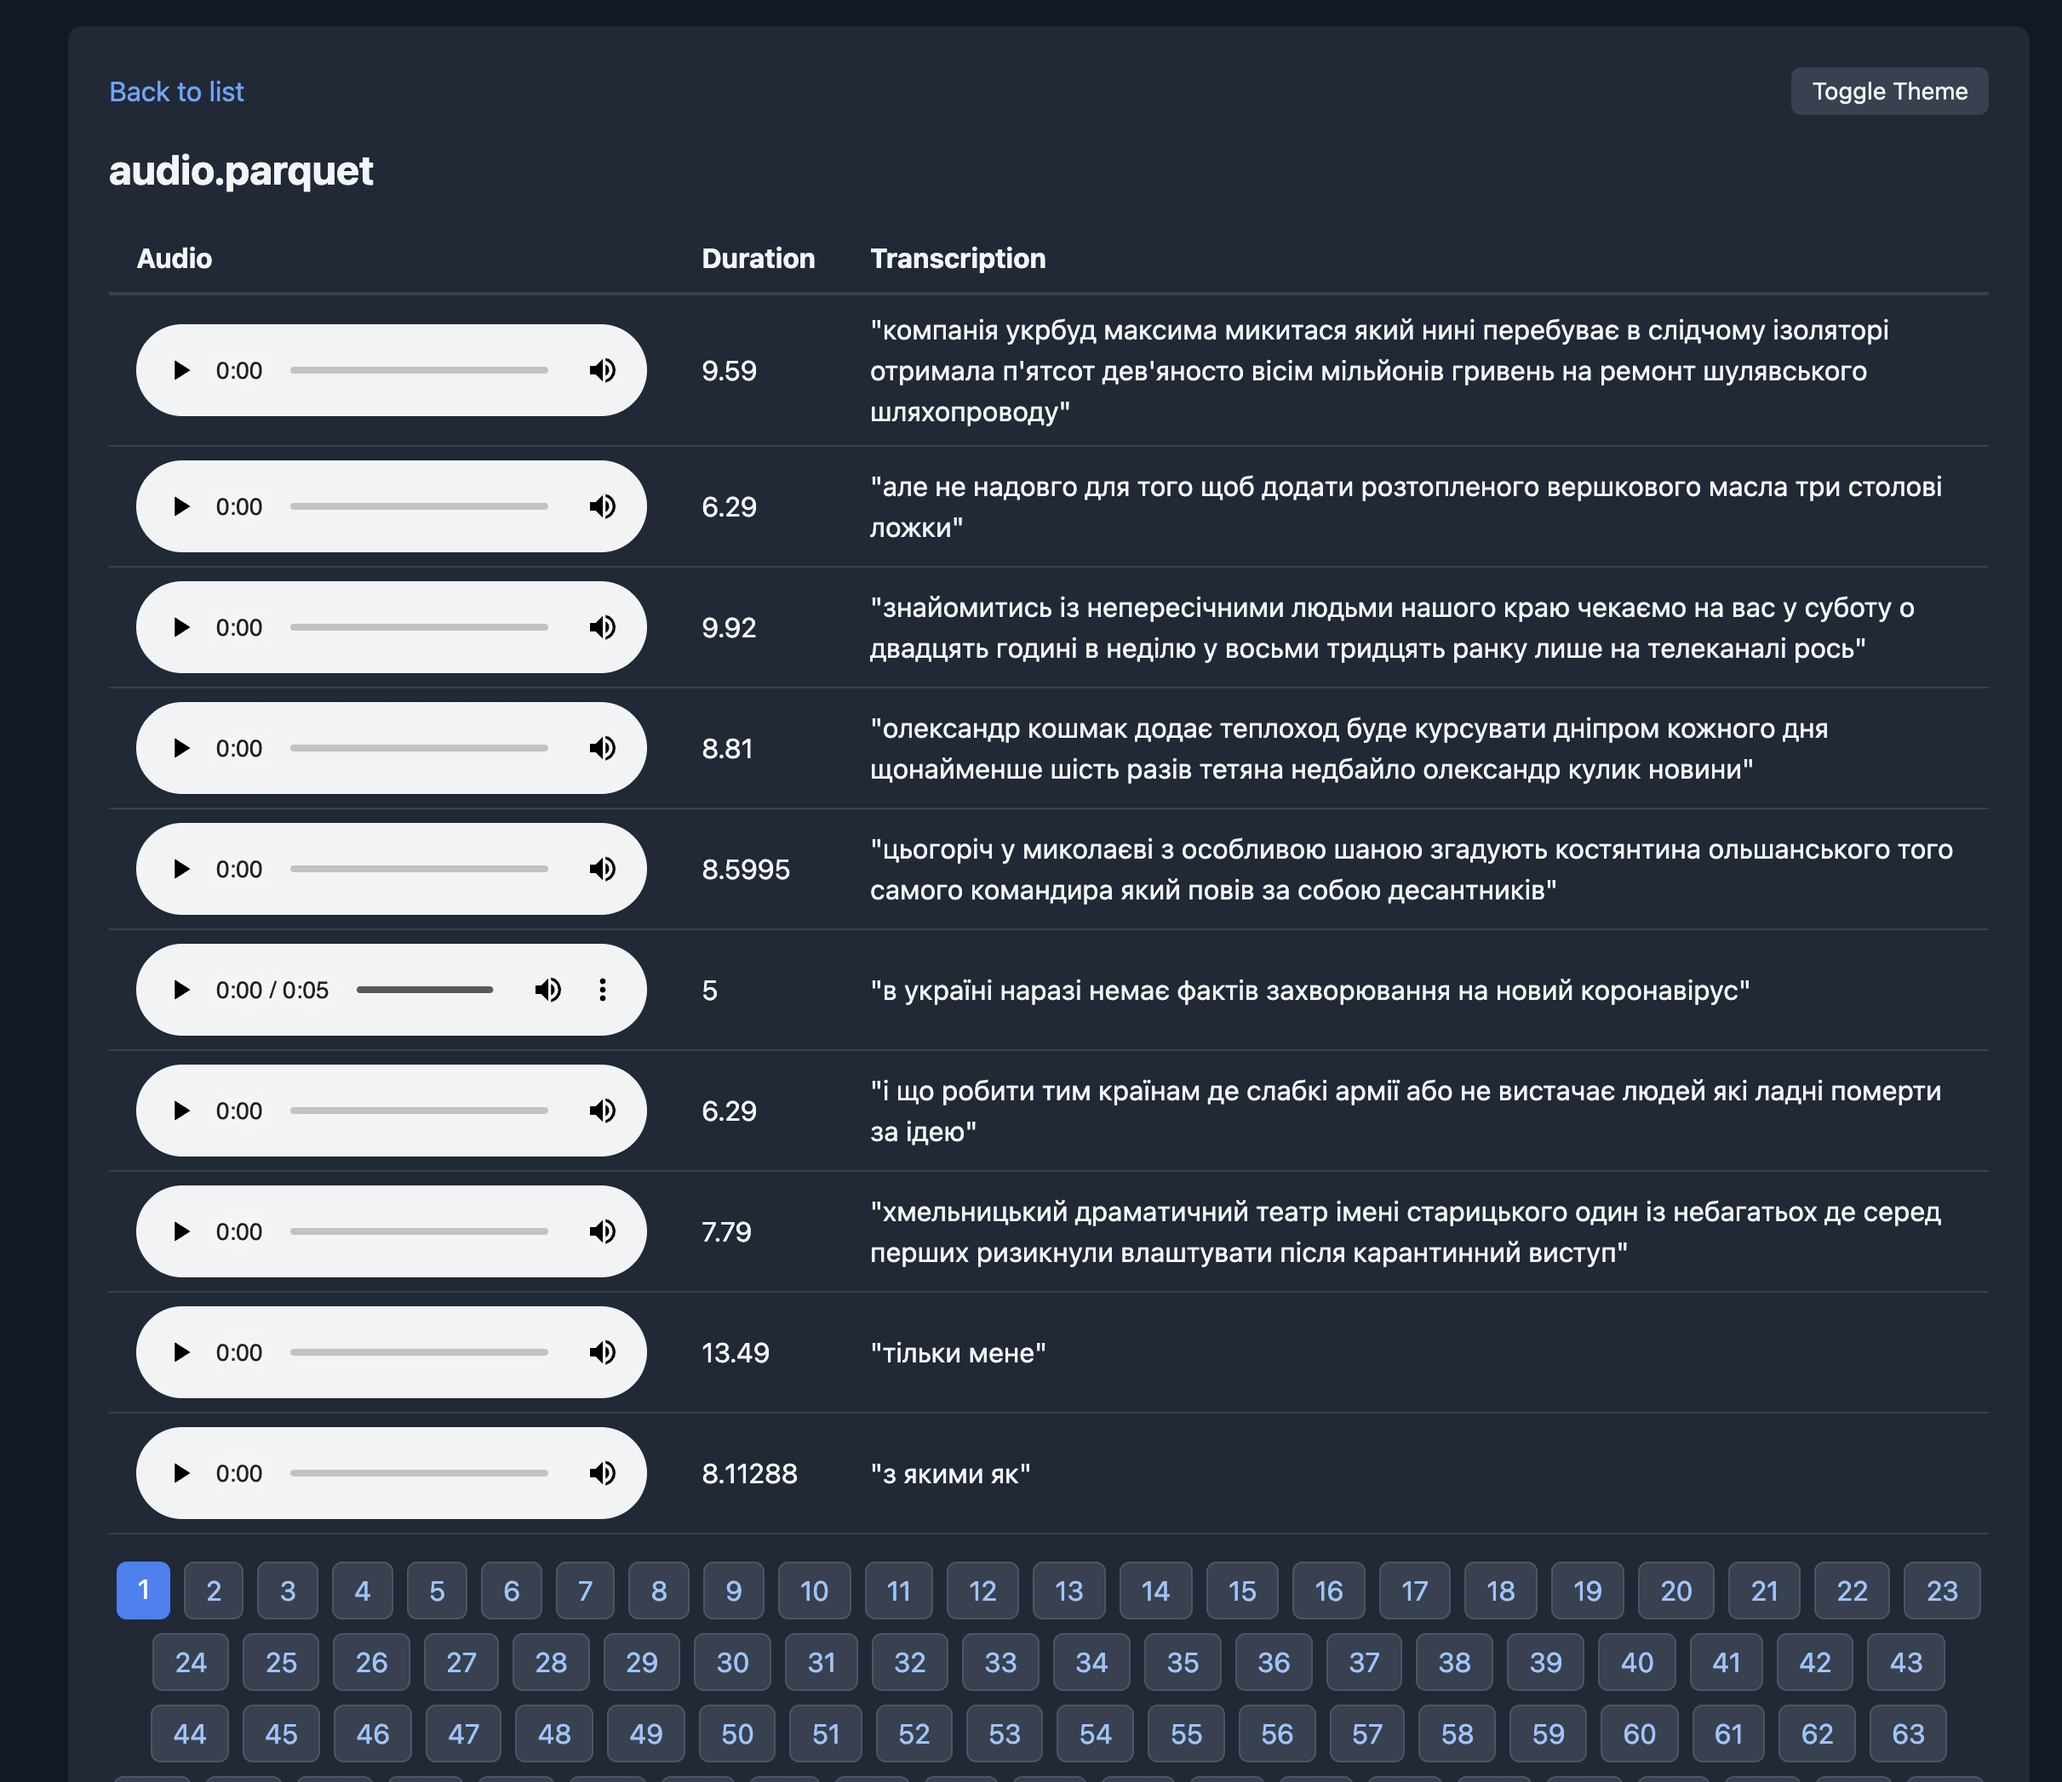
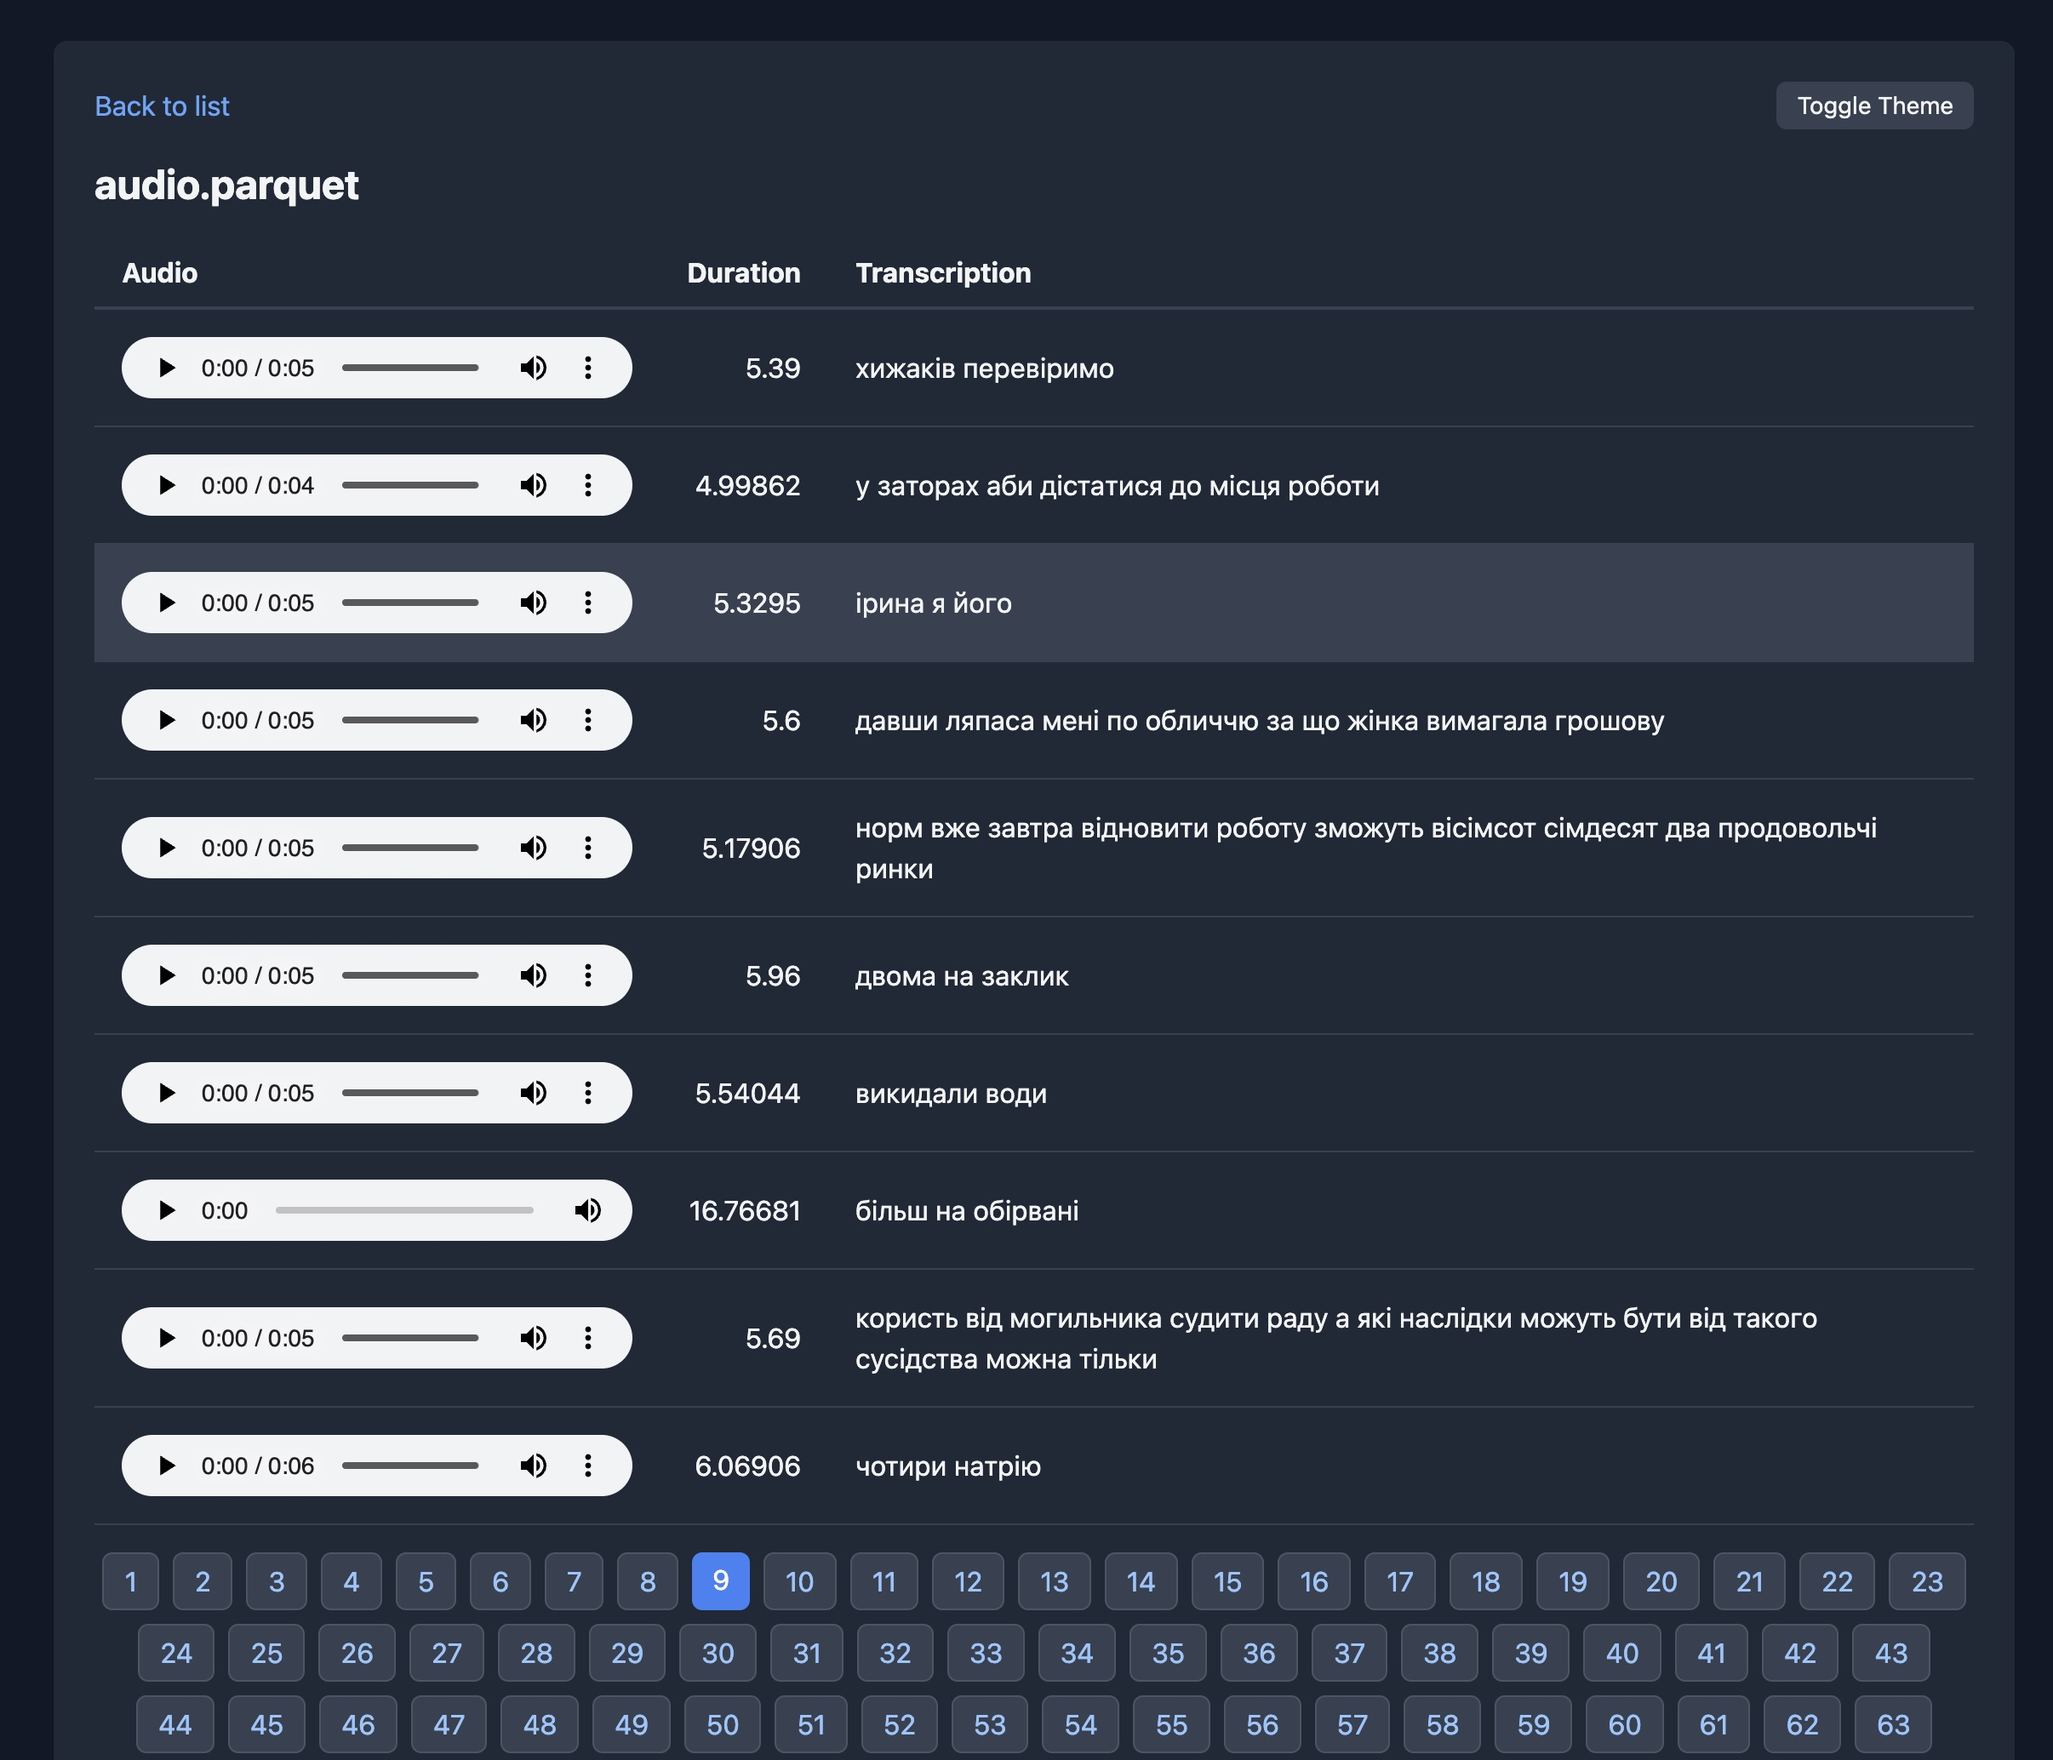
Fixes

diff --git a/src/main.rs b/src/main.rs
@@ -103,7 +103,11 @@ fn extract_parquet_file(tmp_folder: &Path, folder: &Path, filename: &str) -> Vec
         }
 
         let duration = col_d.get(i).unwrap().extract::<f64>().unwrap();
-        let transcription = col_t.get(i).unwrap().to_string();
+        let transcription = if let AnyValue::String(s) = col_t.get(i).unwrap() {
+            s.to_string()
+        } else {
+            col_t.get(i).unwrap().to_string()
+        };
 
         let audio = Audio {
             path,
@@ -225,10 +229,10 @@ async fn view_file(
         );
         rows.push_str(&format!(
             r#"
-            <tr class="border-b dark:border-gray-700">
-                <td class="px-4 py-2"><audio controls src="{}"></audio></td>
-                <td class="px-4 py-2">{}</td>
-                <td class="px-4 py-2">{}</td>
+            <tr class="border-b dark:border-gray-700 hover:bg-gray-50 dark:hover:bg-gray-700">
+                <td class="px-4 py-4"><audio controlslist="nodownload" preload="metadata" class="h-dvh max-h-[2.25rem] w-full min-w-[300px] max-w-xs" controls="" src="{}"></audio></td>
+                <td class="px-4 py-4 text-right">{}</td>
+                <td class="px-4 py-4">{}</td>
             </tr>
             "#,
             audio_src, audio.duration, audio.transcription,
@@ -298,7 +302,7 @@ async fn view_file(
             <thead>
                 <tr class="border-b-2 dark:border-gray-700">
                     <th class="px-4 py-2 text-left">Audio</th>
-                    <th class="px-4 py-2 text-left">Duration</th>
+                    <th class="px-4 py-2 text-right">Duration</th>
                     <th class="px-4 py-2 text-left">Transcription</th>
                 </tr>
             </thead>
